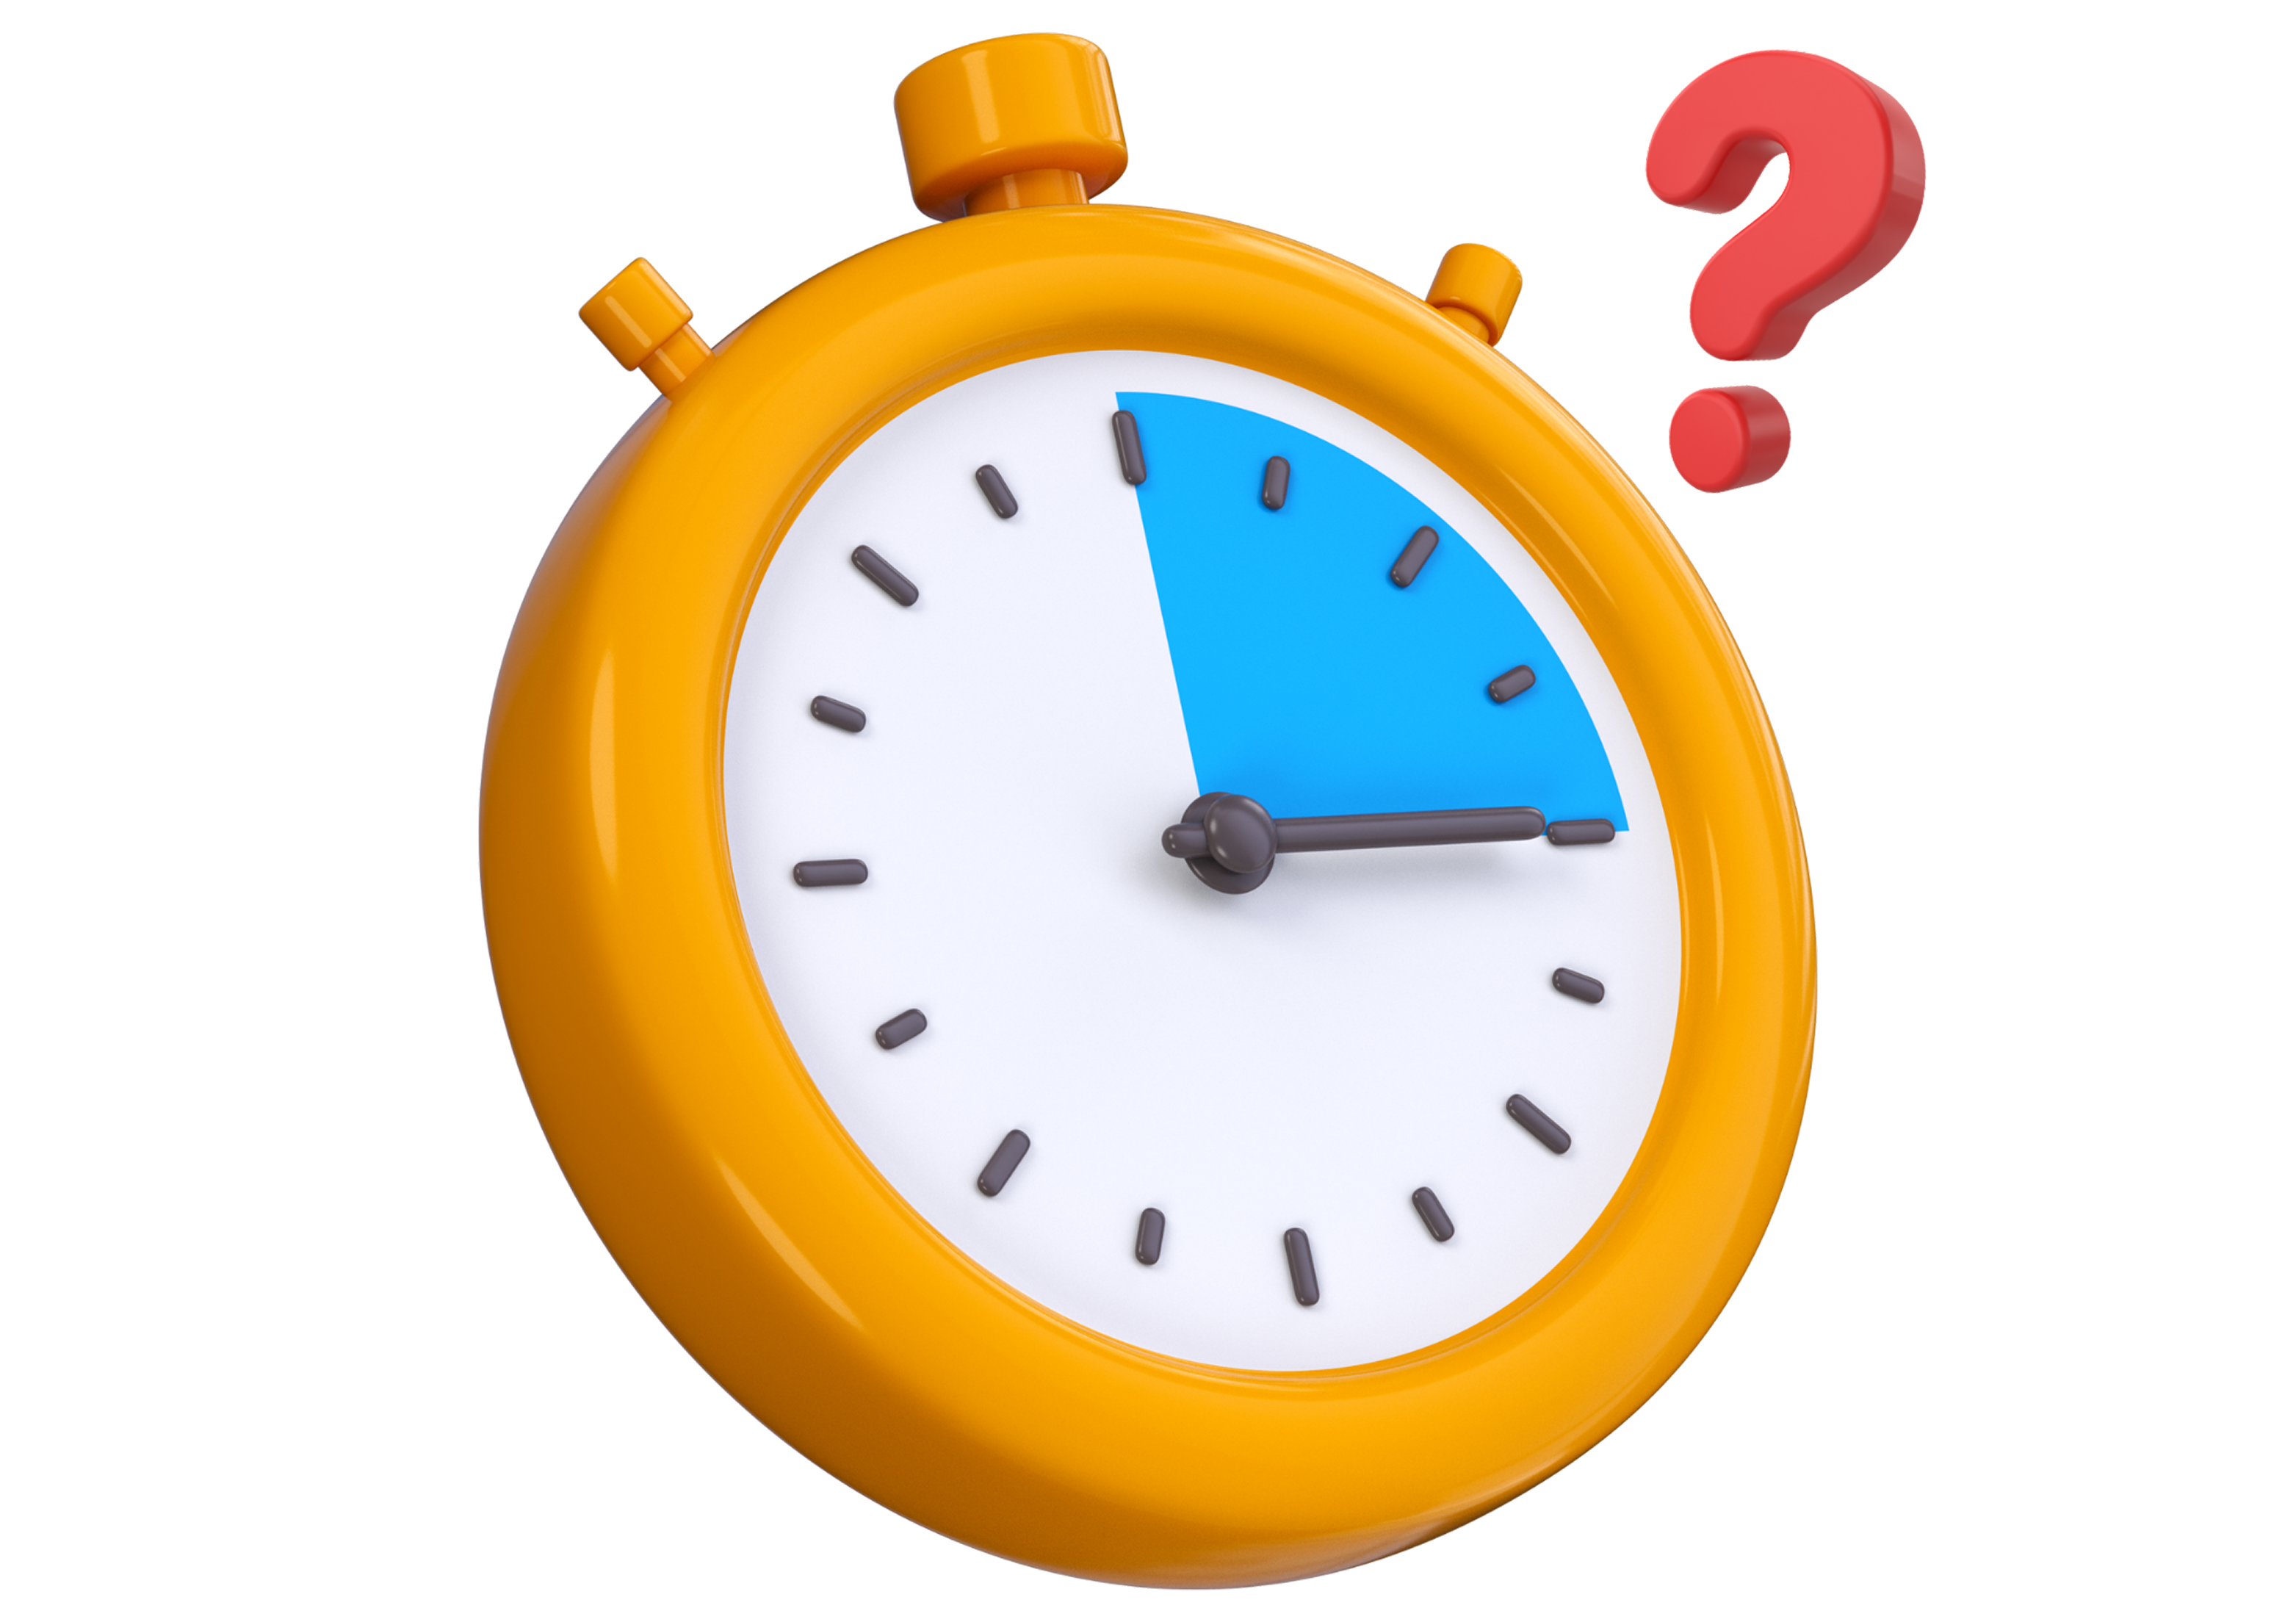
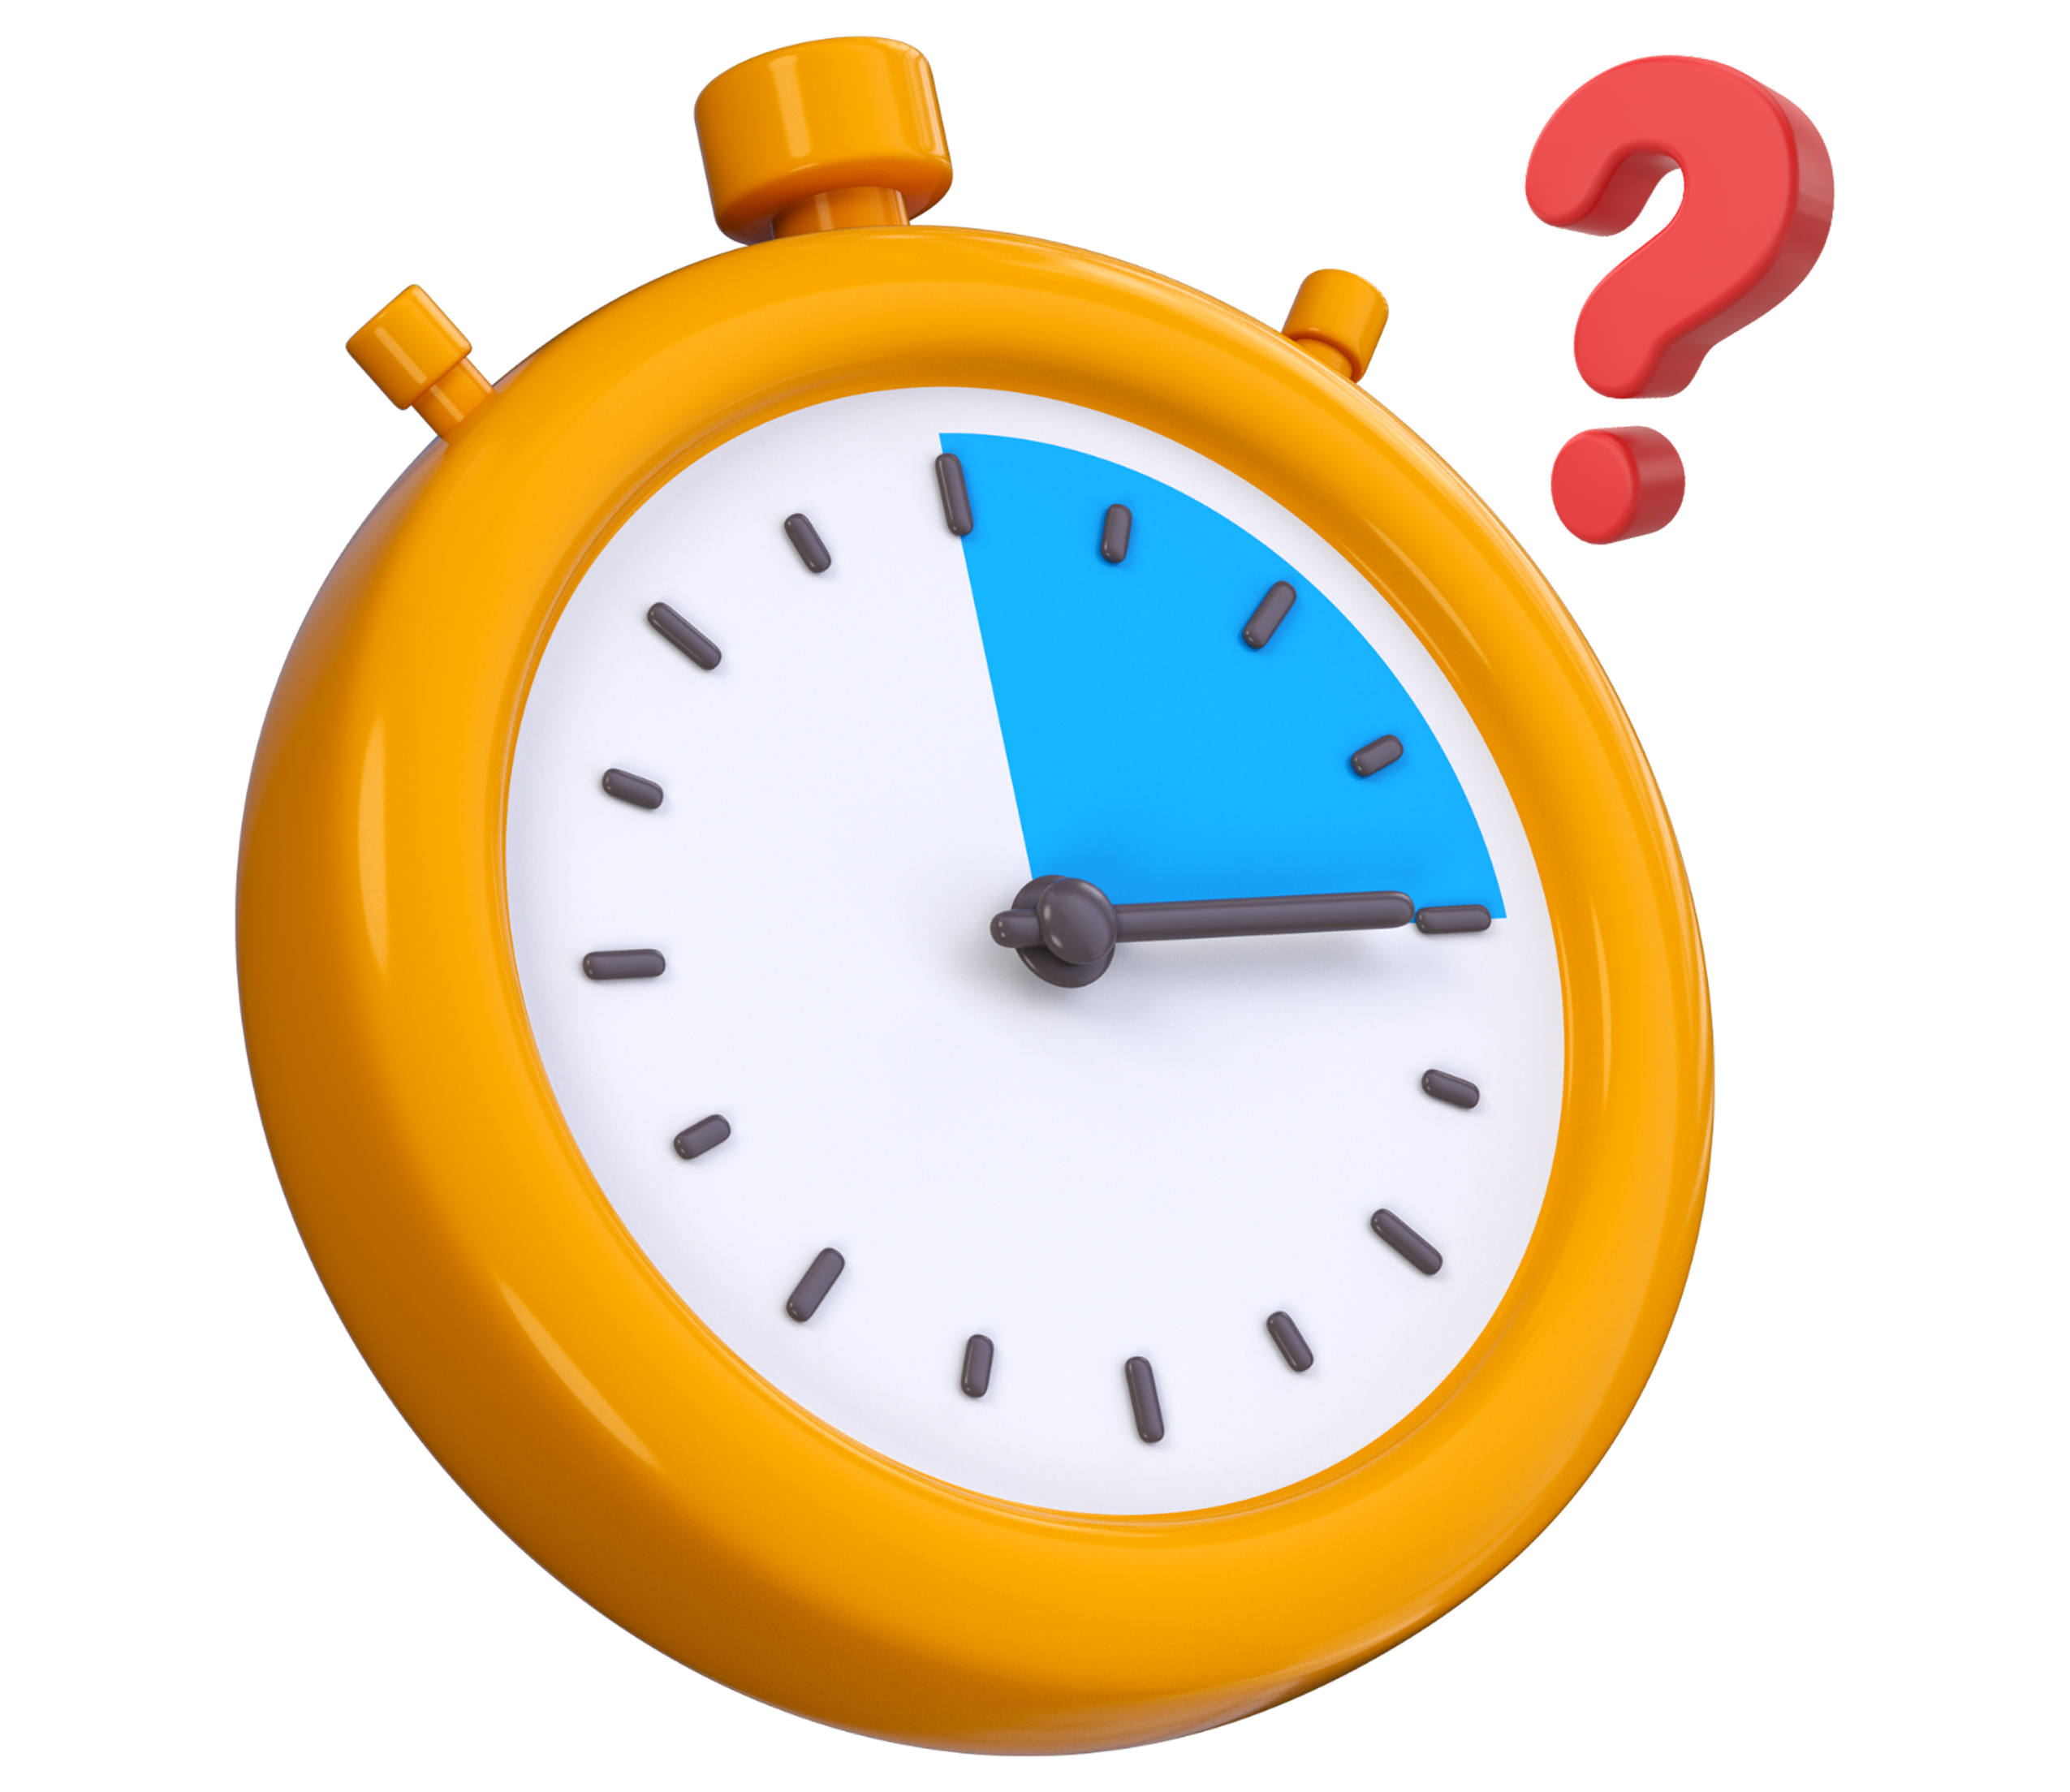
yash

diff --git a/lib/features/student/dashboard_page.dart b/lib/features/student/dashboard_page.dart
@@ -391,8 +391,8 @@ class _StudentDashboardPageState extends State<StudentDashboardPage> {
                     : Alignment.bottomLeft, // teks mepet kiri
                 padding: EdgeInsets.only(
                   bottom: 18,
-                  left: isTextRight ? 0 : 26,
-                  right: isTextRight ? 26 : 0,
+                  left: isTextRight ? 0 : 28,
+                  right: isTextRight ? 28 : 0,
                 ),
                 child: Text(
                   label,
@@ -409,13 +409,13 @@ class _StudentDashboardPageState extends State<StudentDashboardPage> {
 
             // Image overflow ke atas
             Positioned(
-              top: -10,
-              left: isRight ? null : -8,
-              right: isRight ? -8 : null,
+              top: -12,
+              left: isRight ? null : -10,
+              right: isRight ? -7 : null,
               child: Image.asset(
                 imagePath,
-                width: 120,
-                height: 120,
+                width: 130,
+                height: 130,
                 fit: BoxFit.contain,
               ),
             ),